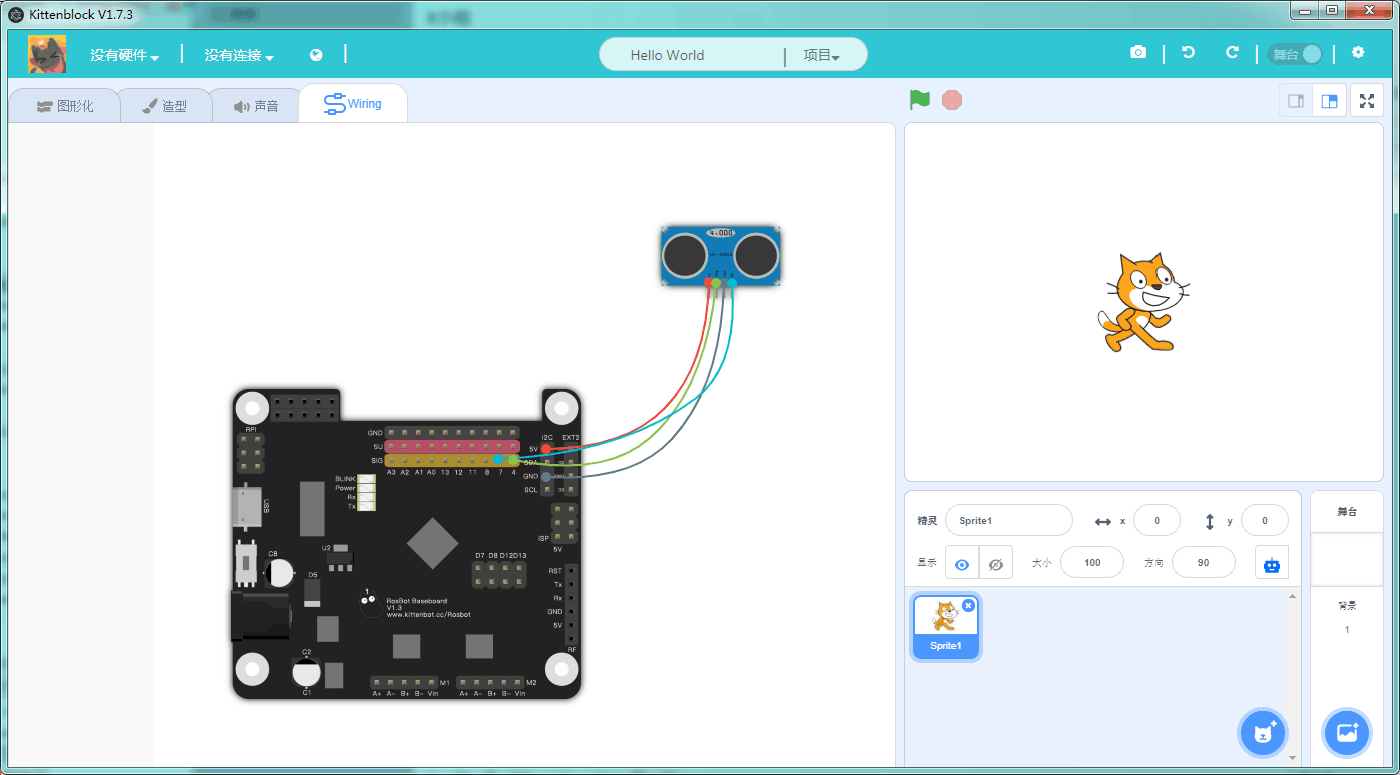
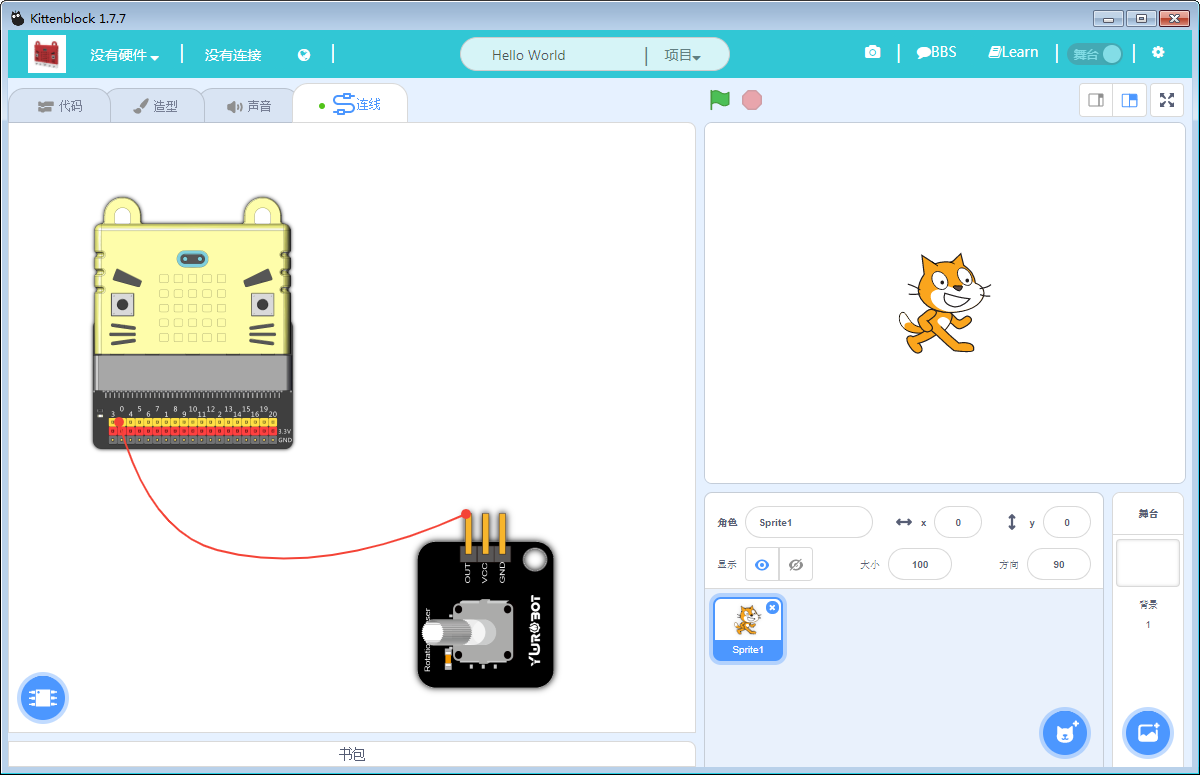
连线引擎帖子修改

Changed region(s): [[0.0, 0.0, 1.0, 1.0], [0.74, 0.3097, 0.8633, 0.4645]]

diff --git a/kittenblock/连线引擎简介和使用.md b/kittenblock/连线引擎简介和使用.md
@@ -1,6 +1,8 @@
 # 连线引擎简介和使用
 
-小喵家早期的天使用户可能知道在kittenblock 1.4x版本有一个连线引擎的功能，但是因为后面1.5x开始框架大改导致前后不兼容所以删掉了。但是随着现在软件慢慢稳定下来，我们在1.73迭代花了3天将连线引擎完完全全重写了一遍。
+前言：
+
+小喵家早期的天使用户可能知道在kittenblock 1.4x版本有一个连线引擎的功能，但是因为后面1.5x开始框架大改导致前后不兼容所以删掉了。但是随着现在软件慢慢稳定下来，我们在1.73迭代花了3天将连线引擎完完全全重写了一遍。1.77版本后又被PMCC喵强烈要求改进了
 
 ![](./images/we_00.png)
 
@@ -8,19 +10,59 @@
 
 Kittenblock是一个专注于硬件编程的平台，但是硬件编程少不了连线的步骤，Kittenblock内的连线引擎设计的初衷就是多少简化这个步骤，给用户更加直观的电路连接的概念。
 
-更新了1.73版本的Kittenblock后大家应该可以看到Tab栏多了一个连线的部分：
+如果只是为了做个可沟通交流容易修改的连线图，那么喵家的这个连线引擎就非常合适。它没有Fritzing一定是svg图条条框框定义引脚，它没有PS那种门槛专业要求。
+
+特色：
+
+1. 使用简单，容易上手，导入图片后，进行连线即可，无需设置
+1. 包容开放，除了内置喵家常用电子模块，还支持用户导入其他家模块图片
+1. 可编辑性，连线是根据软件坐标点计算的，所以其他用户打开后，这个连线图依然是可编辑的。
+1. 可保存PNG，为了方便各位老师写书，右上角的截图图标可以将连线区域截图下来存成png用作其他用途。
+
+## 具体使用
+
+### 打开软件，点开连线标签
 
 ![](./images/we_01.png)
 
-点击打开后可以看到一张空的画布，在最左下角有一个"+"图标。这个是用于导入电路板或电子模块图片的，目前只支持png格式，导入的图片将以1：1的形式绘制在画布上。在Kittenblock安装目录下的wiring目录有一些我们已经画好的主板和电子模块图片，大家可以自由使用。
-
-使用上述方法我们导入一个rosbot主板和一个sr04超声波模块：
+### 打开喵家电子模块库
 
 ![](./images/we_02.png)
 
+### 选择需要的电子模块
+
+这里以rosbot和SR04超声波为例，打开库后，直接点选
+
+![](./images/we_06.png)
+
+### 可对图片进行移动，缩放，旋转
+
+放大缩小
+
+![](./images/we_07.png)
+
+正转，反转角度
+
+![](./images/we_08.png)
+
+选中某个图片，删除
+![](./images/we_09.png)
+
+### 添加其他家模块图片
+
+加载：
+
+![](./images/we_10.png)
+
+选择：
+
+![](./images/we_11.png)
+
+
+### 连线操作
 之后我们来模拟一下连线过程，步骤基本如下：
 
-1. 在电子模块针脚处双击鼠标，可以生成一个线路引脚。
+1. 在电子模块针脚处双击鼠标，生成线路引脚点。
 2. 按着引脚点可以拖动一条导线出来。
 3. 在另一个引脚释放鼠标可以将两个点用导线连接起来。
 
@@ -39,6 +81,11 @@ Kittenblock是一个专注于硬件编程的平台，但是硬件编程少不了
 - 拖动控制点就可以弯曲导线了
 
 ![](./images/we_05.png)
+
+### 输出png图
+
+软件右上角的相机图标进行界面截图，这样就方便一些用户要进行写帖子交流或者写书需求
+![](./images/we_12.png)
 
 ## 连线结果保存和打开
 
